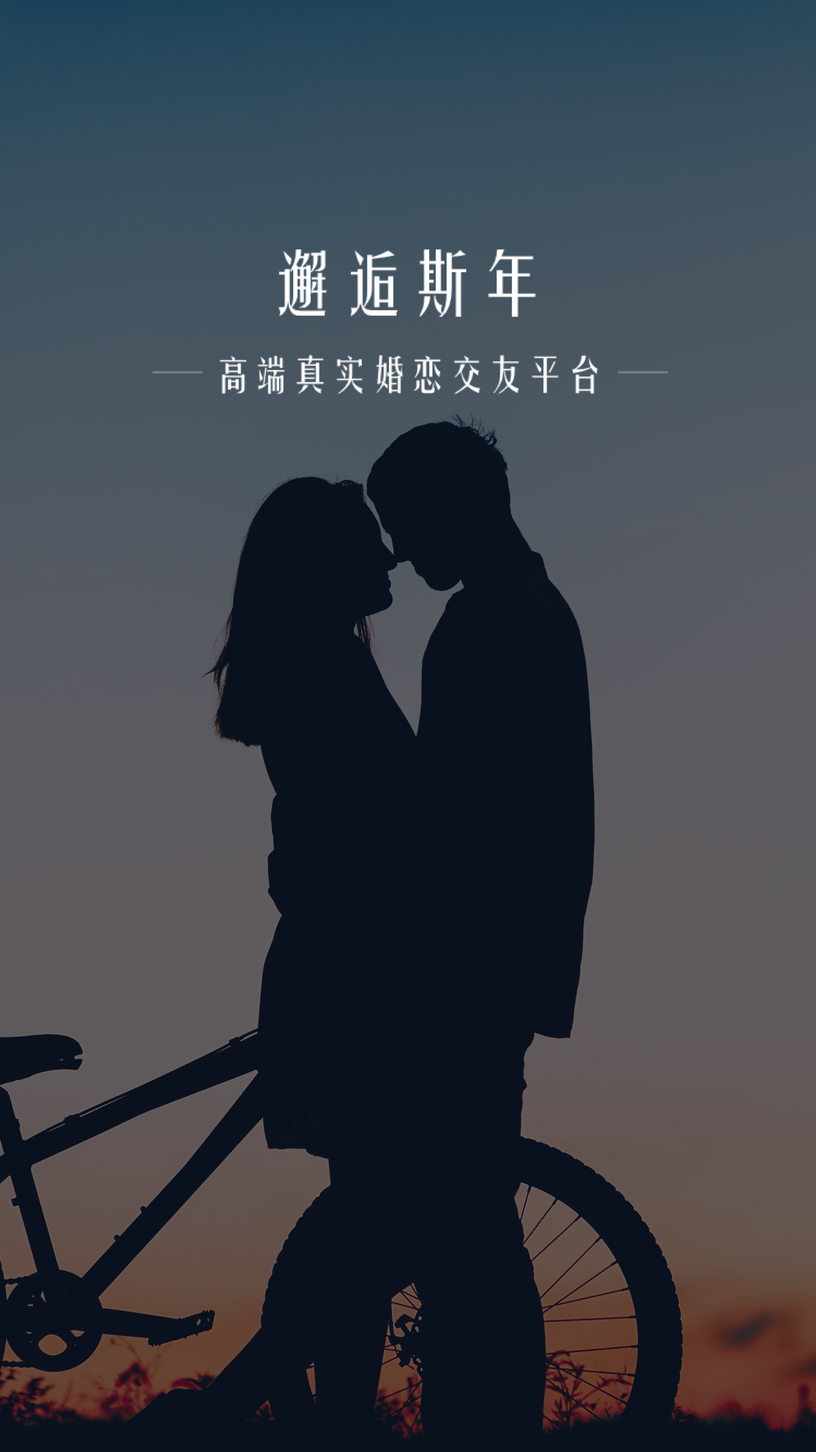
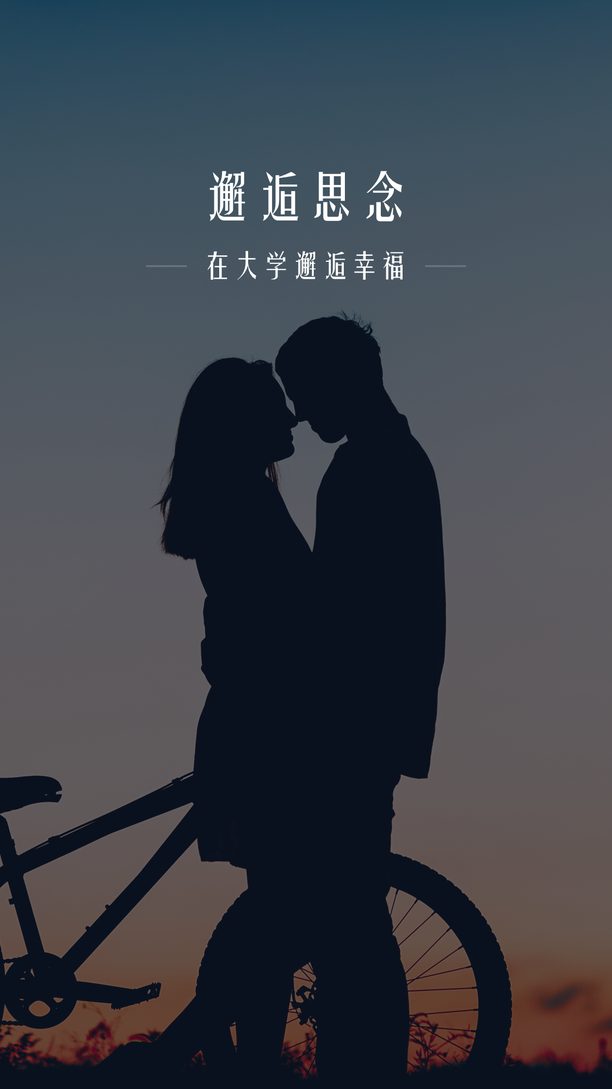
2017 12-23

Changed region(s): [[0.2489, 0.1549, 0.7467, 0.2789]]

diff --git a/src/pages/register/register.ts b/src/pages/register/register.ts
@@ -60,8 +60,8 @@ export class RegisterPage {
    * 注册
    */
   public register() {
-    // let rulePhone = /^1[3|4|5|7|8][0-9]{9}$/;
-    // let rulePas = /^[a-zA-Z0-9]{6,20}$/;
+    let rulePhone = /^1[3|4|5|7|8][0-9]{9}$/;
+    let rulePas = /^[a-zA-Z0-9]{6,20}$/;
     console.log(this.registerForm)
     if(!this.cucumber){
       this.registerMessage("请同意协议内容");
@@ -73,14 +73,14 @@ export class RegisterPage {
         return;
       }
     }
-/*    if(!rulePhone.test(this.registerForm.account)){
+    if(!rulePhone.test(this.registerForm.account)){
       this.registerMessage("请输入正确的手机号码");
       return;
     }
     if(!rulePas.test(this.registerForm.password)){
       this.registerMessage("请按密码格式输入");
       return;
-    }*/
+    }
 
     this.myHttp.post(MyHttp.URL_REGISTER, this.registerForm, (data) => {
       if (data.registerResult === "0") {
@@ -139,20 +139,20 @@ export class RegisterPage {
    * 弹出用户协议
    */
   seeProtocol(){
-    let protocol = "邂逅斯年软件服务协议\n" +
+    let protocol = "邂逅思念软件服务协议\n" +
       "特别提示\n" +
       "\n" +
       "杭州来布科技有限公司（以下简称“来布科技”）在此特别提醒您（用户）在注册成为用户之前，请认真阅读本《用户协议》（以下简称“协议”），确保您充分理解本协议中各条款。请您审慎阅读并选择接受或不接受本协议。除非您接受本协议所有条款，否则您无权注册、登录或使用本协议所涉服务。您的注册、登录、使用等行为将视为对本协议的接受，并同意接受本协议各项条款的约束。 \n" +
-      "本协议约定来布科技与用户之间关于“邂逅斯年”软件服务（以下简称“服务”）的权利义务。“用户”是指注册、登录、使用本服务的个人。本协议可由来布科技随时更新，更新后的协议条款一旦公布即代替原来的协议条款，恕不再另行通知，用户可在本网站查阅最新版协议条款。在来布科技修改协议条款后，如果用户不接受修改后的条款，请立即停止使用来布科技提供的服务，用户继续使用来布科技提供的服务将被视为接受修改后的协议。\n" +
+      "本协议约定来布科技与用户之间关于“邂逅思念”软件服务（以下简称“服务”）的权利义务。“用户”是指注册、登录、使用本服务的个人。本协议可由来布科技随时更新，更新后的协议条款一旦公布即代替原来的协议条款，恕不再另行通知，用户可在本网站查阅最新版协议条款。在来布科技修改协议条款后，如果用户不接受修改后的条款，请立即停止使用来布科技提供的服务，用户继续使用来布科技提供的服务将被视为接受修改后的协议。\n" +
       "一、账号注册\n" +
-      "1、用户在使用本服务前需要注册一个“邂逅斯年”账号。“邂逅斯年”账号应当使用手机号码绑定注册，请用户使用尚未与“邂逅斯年”账号绑定的手机号码，以及未被来布科技根据本协议封禁的手机号码注册“邂逅斯年”账号。来布科技可以根据用户需求或产品需要对账号注册和绑定的方式进行变更，而无须事先通知用户。 \n" +
-      "2、鉴于“邂逅斯年”账号的绑定注册方式，您同意来布科技在注册时将使用您提供的手机号码自动提取您的手机设备识别码等信息用于注册。 \n" +
+      "1、用户在使用本服务前需要注册一个“邂逅思念”账号。“邂逅思念”账号应当使用手机号码绑定注册，请用户使用尚未与“邂逅思念”账号绑定的手机号码，以及未被来布科技根据本协议封禁的手机号码注册“邂逅思念”账号。来布科技可以根据用户需求或产品需要对账号注册和绑定的方式进行变更，而无须事先通知用户。 \n" +
+      "2、鉴于“邂逅思念”账号的绑定注册方式，您同意来布科技在注册时将使用您提供的手机号码自动提取您的手机设备识别码等信息用于注册。 \n" +
       "3、在用户注册及使用本服务时，来布科技需要搜集能识别用户身份的个人信息以便来布科技可以在必要时联系用户，或为用户提供更好的使用体验。来布科技搜集的信息包括但不限于用户的姓名、性别、年龄、出生日期、身份证号、地址、学校情况、公司情况、所属行业、兴趣爱好、常出没的地方、个人说明；来布科技同意对这些信息的使用将受限于第三条用户个人隐私信息保护的约束。 \n" +
-      "4、“邂逅斯年”是一款面向有明确结婚意向的单身人士的实名制移动社交产品，用户需要向“邂逅斯年”提交可以证实自己个人信息真实性的包括但不限于用户的身份证件号码及正反面照片、护照证件号码及照片、学历学位证书正面照片、房产证件正面照片、汽车行驶证件正面照片，“邂逅斯年”有权对用户提交的认证信息进行审核并且确认通过或者否决通过。用户无法通过“邂逅斯年”的信息认证审核将无法使用“邂逅斯年”提供的包括但不限于即时通讯、关注他人产品功能，但可以查看其他会员的公开资料及使用“邂逅斯年”提供的条件搜索功能。“邂逅斯年”将对用户提交的用于个人信息真实性认证的资料进行严格的保密。\n" +
+      "4、“邂逅思念”是一款面向有明确结婚意向的单身人士的实名制移动社交产品，用户需要向“邂逅思念”提交可以证实自己个人信息真实性的包括但不限于用户的身份证件号码及正反面照片、护照证件号码及照片、学历学位证书正面照片、房产证件正面照片、汽车行驶证件正面照片，“邂逅思念”有权对用户提交的认证信息进行审核并且确认通过或者否决通过。用户无法通过“邂逅思念”的信息认证审核将无法使用“邂逅思念”提供的包括但不限于即时通讯、关注他人产品功能，但可以查看其他会员的公开资料及使用“邂逅思念”提供的条件搜索功能。“邂逅思念”将对用户提交的用于个人信息真实性认证的资料进行严格的保密。\n" +
       "\n" +
       "二、服务内容\n" +
       "1、本服务的具体内容由来布科技根据实际情况提供，包括但不限于授权用户通过其账号进行即时通讯、关注他人、发布留言。来布科技可以对其提供的服务予以变更，且来布科技提供的服务内容可能随时变更；用户将会收到来布科技关于服务变更的通知。 \n" +
-      "2、来布科技提供的服务包含免费服务与收费服务。用户可以通过付费方式购买收费服务，具体方式为：用户通过网上银行、支付宝或其他“邂逅斯年”平台提供的付费途径支付一定数额的人民币，然后根据来布科技公布的资费标准购买用户欲使用的收费服务，从而获得收费服务使用权限。对于收费服务，来布科技会在用户使用之前给予用户明确的提示，只有用户根据提示确认其同意按照前述支付方式支付费用并完成了支付行为，用户才能使用该等收费服务。支付行为的完成以银行或第三方支付平台生成“支付已完成”的确认通知为准。\n" +
+      "2、来布科技提供的服务包含免费服务与收费服务。用户可以通过付费方式购买收费服务，具体方式为：用户通过网上银行、支付宝或其他“邂逅思念”平台提供的付费途径支付一定数额的人民币，然后根据来布科技公布的资费标准购买用户欲使用的收费服务，从而获得收费服务使用权限。对于收费服务，来布科技会在用户使用之前给予用户明确的提示，只有用户根据提示确认其同意按照前述支付方式支付费用并完成了支付行为，用户才能使用该等收费服务。支付行为的完成以银行或第三方支付平台生成“支付已完成”的确认通知为准。\n" +
       "\n" +
       "三、用户个人隐私信息保护\n" +
       "1、用户在注册账号或使用本服务的过程中，可能需要填写或提交一些必要的信息，如法律法规、规章规范性文件（以下称“法律法规”）规定的需要填写的身份信息。如用户提交的信息不完整或不符合法律法规的规定，则用户可能无法使用本服务或在使用本服务的过程中受到限制。 \n" +
@@ -170,13 +170,13 @@ export class RegisterPage {
       "(3) 依本协议约定，来布科技管理、审查用户信息及进行处理措施； \n" +
       "(4) 适用法律法规规定的其他事项。\n" +
       "除上述事项外，如未取得用户事先同意，来布科技不会将用户个人隐私信息使用于任何其他用途。 \n" +
-      "6、来布科技重视对未成年人个人隐私信息的保护。来布科技将依赖用户提供的个人信息判断用户是否为未成年人。任何18岁以下的未成年人注册账号或使用本服务应事先取得家长或其法定监护人（以下简称\"监护人\"）的书面同意。除根据法律法规的规定及有权机关的指示披露外，来布科技不会使用或向任何第三方透露未成年人的聊天记录及其他个人隐私信息。除本协议约定的例外情形外，未经监护人事先同意，来布科技不会使用或向任何第三方透露未成年人的个人隐私信息。任何18岁以下的用户不得下载和使用来布科技通过邂逅斯年软件提供的网络游戏。 \n" +
-      "7、用户确认，其地理位置信息为非个人隐私信息，用户成功注册“邂逅斯年”账号视为确认授权来布科技提取、公开及使用用户的地理位置信息。用户地理位置信息将作为用户公开资料之一，由来布科技向其他用户公开。如用户需要终止向其他用户公开其地理位置信息，可随时自行设置为隐身状态。 \n" +
+      "6、来布科技重视对未成年人个人隐私信息的保护。来布科技将依赖用户提供的个人信息判断用户是否为未成年人。任何18岁以下的未成年人注册账号或使用本服务应事先取得家长或其法定监护人（以下简称\"监护人\"）的书面同意。除根据法律法规的规定及有权机关的指示披露外，来布科技不会使用或向任何第三方透露未成年人的聊天记录及其他个人隐私信息。除本协议约定的例外情形外，未经监护人事先同意，来布科技不会使用或向任何第三方透露未成年人的个人隐私信息。任何18岁以下的用户不得下载和使用来布科技通过邂逅思念软件提供的网络游戏。 \n" +
+      "7、用户确认，其地理位置信息为非个人隐私信息，用户成功注册“邂逅思念”账号视为确认授权来布科技提取、公开及使用用户的地理位置信息。用户地理位置信息将作为用户公开资料之一，由来布科技向其他用户公开。如用户需要终止向其他用户公开其地理位置信息，可随时自行设置为隐身状态。 \n" +
       "8、为了改善来布科技的技术和服务，向用户提供更好的服务体验，来布科技或可会自行收集使用或向第三方提供用户的非个人隐私信息。\n" +
       "\n" +
       "四、内容规范\n" +
       "1、本条所述内容是指用户使用本服务过程中所制作、上载、复制、发布、传播的任何内容，包括但不限于账号头像、名称、用户说明等注册信息及认证资料，或文字、语音、图片、视频、图文等发送、回复或自动回复消息和相关链接页面，以及其他使用账号或本服务所产生的内容。 \n" +
-      "2、用户不得利用“邂逅斯年”账号或本服务制作、上载、复制、发布、传播如下法律、法规和政策禁止的内容：\n" +
+      "2、用户不得利用“邂逅思念”账号或本服务制作、上载、复制、发布、传播如下法律、法规和政策禁止的内容：\n" +
       "(1) 反对宪法所确定的基本原则的； \n" +
       "(2) 危害国家安全，泄露国家秘密，颠覆国家政权，破坏国家统一的； \n" +
       "(3) 损害国家荣誉和利益的； \n" +
@@ -187,7 +187,7 @@ export class RegisterPage {
       "(8) 侮辱或者诽谤他人，侵害他人合法权益的； \n" +
       "(9) 不遵守法律法规底线、社会主义制度底线、国家利益底线、公民合法权益底线、社会公共秩序底线、道德风尚底线和信息真实性底线的“七条底线”要求的； \n" +
       "(10) 含有法律、行政法规禁止的其他内容的信息。\n" +
-      "3、用户不得利用“邂逅斯年”账号或本服务制作、上载、复制、发布、传播如下干扰“邂逅斯年”正常运营，以及侵犯其他用户或第三方合法权益的内容：\n" +
+      "3、用户不得利用“邂逅思念”账号或本服务制作、上载、复制、发布、传播如下干扰“邂逅思念”正常运营，以及侵犯其他用户或第三方合法权益的内容：\n" +
       "(1) 含有任何性或性暗示的； \n" +
       "(2) 含有辱骂、恐吓、威胁内容的； \n" +
       "(3) 含有骚扰、垃圾广告、恶意信息、诱骗信息的； \n" +
@@ -197,23 +197,23 @@ export class RegisterPage {
       "\n" +
       "五、使用规则\n" +
       "1、用户在本服务中或通过本服务所传送、发布的任何内容并不反映或代表，也不得被视为反映或代表来布科技的观点、立场或政策，来布科技对此不承担任何责任。 \n" +
-      "2、用户不得利用“邂逅斯年”账号或本服务进行如下行为：\n" +
+      "2、用户不得利用“邂逅思念”账号或本服务进行如下行为：\n" +
       "(1) 提交、发布虚假信息，或盗用他人头像或资料，冒充、利用他人名义的； \n" +
       "(2) 强制、诱导其他用户关注、点击链接页面或分享信息的； \n" +
       "(3) 虚构事实、隐瞒真相以误导、欺骗他人的； \n" +
       "(4) 利用技术手段批量建立虚假账号的； \n" +
-      "(5) 利用“邂逅斯年”账号或本服务从事任何违法犯罪活动的； \n" +
+      "(5) 利用“邂逅思念”账号或本服务从事任何违法犯罪活动的； \n" +
       "(6) 制作、发布与以上行为相关的方法、工具，或对此类方法、工具进行运营或传播，无论这些行为是否为商业目的； \n" +
-      "(7) 其他违反法律法规规定、侵犯其他用户合法权益、干扰“邂逅斯年”正常运营或来布科技未明示授权的行为。\n" +
-      "3、用户须对利用“邂逅斯年”账号或本服务传送信息的真实性、合法性、无害性、准确性、有效性等全权负责，与用户所传播的信息相关的任何法律责任由用户自行承担，与来布科技无关。如因此给来布科技或第三方造成损害的，用户应当依法予以赔偿。 \n" +
+      "(7) 其他违反法律法规规定、侵犯其他用户合法权益、干扰“邂逅思念”正常运营或来布科技未明示授权的行为。\n" +
+      "3、用户须对利用“邂逅思念”账号或本服务传送信息的真实性、合法性、无害性、准确性、有效性等全权负责，与用户所传播的信息相关的任何法律责任由用户自行承担，与来布科技无关。如因此给来布科技或第三方造成损害的，用户应当依法予以赔偿。 \n" +
       "4、来布科技提供的服务中可能包括广告，用户同意在使用过程中显示来布科技和第三方供应商、合作伙伴提供的广告。除法律法规明确规定外，用户应自行对依该广告信息进行的交易负责，对用户因依该广告信息进行的交易或前述广告商提供的内容而遭受的损失或损害，来布科技不承担任何责任。\n" +
       "\n" +
       "六、帐户管理\n" +
-      "1、 “邂逅斯年”账号的所有权归来布科技所有，用户完成申请注册手续后，获得“邂逅斯年”账号的使用权，该使用权仅属于初始申请注册人，禁止赠与、借用、租用、转让或售卖。来布科技因经营需要，有权回收用户的“邂逅斯年”账号。 \n" +
-      "2、用户可以更改、删除“邂逅斯年”帐户上的个人资料、注册信息及传送内容等，但需注意，删除有关信息的同时也会删除用户储存在系统中的文字和图片。用户需承担该风险。 \n" +
+      "1、 “邂逅思念”账号的所有权归来布科技所有，用户完成申请注册手续后，获得“邂逅思念”账号的使用权，该使用权仅属于初始申请注册人，禁止赠与、借用、租用、转让或售卖。来布科技因经营需要，有权回收用户的“邂逅思念”账号。 \n" +
+      "2、用户可以更改、删除“邂逅思念”帐户上的个人资料、注册信息及传送内容等，但需注意，删除有关信息的同时也会删除用户储存在系统中的文字和图片。用户需承担该风险。 \n" +
       "3、用户有责任妥善保管注册账号信息及账号密码的安全，因用户保管不善可能导致遭受盗号或密码失窃，责任由用户自行承担。用户需要对注册账号以及密码下的行为承担法律责任。用户同意在任何情况下不使用其他用户的账号或密码。在用户怀疑他人使用其账号或密码时，用户同意立即通知来布科技。 \n" +
-      "4、用户应遵守本协议的各项条款，正确、适当地使用本服务，如因用户违反本协议中的任何条款，来布科技在通知用户后有权依据协议中断或终止对违约用户“邂逅斯年”账号提供服务。如用户后续再次注册的，迈优有权继续中断或终止对违约用户新注册的“邂逅斯年”账号提供服务。同时，来布科技保留在任何时候收回“邂逅斯年”账号、用户名的权利。 \n" +
-      "5、如用户注册“邂逅斯年”账号后一年不登录，通知用户后，来布科技可以收回该账号，以免造成资源浪费，由此造成的不利后果由用户自行承担。\n" +
+      "4、用户应遵守本协议的各项条款，正确、适当地使用本服务，如因用户违反本协议中的任何条款，来布科技在通知用户后有权依据协议中断或终止对违约用户“邂逅思念”账号提供服务。如用户后续再次注册的，迈优有权继续中断或终止对违约用户新注册的“邂逅思念”账号提供服务。同时，来布科技保留在任何时候收回“邂逅思念”账号、用户名的权利。 \n" +
+      "5、如用户注册“邂逅思念”账号后一年不登录，通知用户后，来布科技可以收回该账号，以免造成资源浪费，由此造成的不利后果由用户自行承担。\n" +
       "\n" +
       "七、数据储存\n" +
       "1、来布科技不对用户在本服务中相关数据的删除或储存失败负责。 \n" +
@@ -221,7 +221,7 @@ export class RegisterPage {
       "3、如用户停止使用本服务或本服务终止，来布科技可以从服务器上永久地删除用户的数据。本服务停止、终止后，来布科技没有义务向用户返还任何数据。\n" +
       "\n" +
       "八、风险承担\n" +
-      "1、用户理解并同意，“邂逅斯年”仅为用户提供信息分享、传送及获取的平台，用户必须为自己注册账号下的一切行为负责，包括用户所传送的任何内容以及由此产生的任何后果。用户应对“邂逅斯年”及本服务中的内容自行加以判断，并承担因使用内容而引起的所有风险，包括因对内容的正确性、完整性或实用性的依赖而产生的风险。来布科技无法且不会对因用户行为而导致的任何损失或损害承担责任。 如果用户发现任何人违反本协议约定或以其他不当的方式使用本服务，请立即向来布科技举报或投诉，来布科技将依本协议约定进行处理。 \n" +
+      "1、用户理解并同意，“邂逅思念”仅为用户提供信息分享、传送及获取的平台，用户必须为自己注册账号下的一切行为负责，包括用户所传送的任何内容以及由此产生的任何后果。用户应对“邂逅思念”及本服务中的内容自行加以判断，并承担因使用内容而引起的所有风险，包括因对内容的正确性、完整性或实用性的依赖而产生的风险。来布科技无法且不会对因用户行为而导致的任何损失或损害承担责任。 如果用户发现任何人违反本协议约定或以其他不当的方式使用本服务，请立即向来布科技举报或投诉，来布科技将依本协议约定进行处理。 \n" +
       "2、用户理解并同意，因业务发展需要，来布科技保留单方面对本服务的全部或部分服务内容变更、暂停、终止或撤销的权利，用户需承担此风险。\n" +
       "\n" +
       "九、知识产权声明\n" +
@@ -241,17 +241,17 @@ export class RegisterPage {
       "2、本服务同大多数互联网服务一样，受包括但不限于用户原因、网络服务质量、社会环境等因素的差异影响，可能受到各种安全问题的侵扰，如他人利用用户的资料，造成现实生活中的骚扰；用户下载安装的其它软件或访问的其他网站中含有“特洛伊木马”等病毒，威胁到用户的计算机信息和数据的安全，继而影响本服务的正常使用等等。用户应加强信息安全及使用者资料的保护意识，要注意加强密码保护，以免遭致损失和骚扰。 \n" +
       "3、用户理解并确认，本服务存在因不可抗力、计算机病毒或黑客攻击、系统不稳定、用户所在位置、用户关机以及其他任何技术、互联网络、通信线路原因等造成的服务中断或不能满足用户要求的风险，因此导致的用户或第三方任何损失，来布科技不承担任何责任。 \n" +
       "4、用户理解并确认，在使用本服务过程中存在来自任何他人的包括误导性的、欺骗性的、威胁性的、诽谤性的、令人反感的或非法的信息，或侵犯他人权利的匿名或冒名的信息，以及伴随该等信息的行为，因此导致的用户或第三方的任何损失，来布科技不承担任何责任。 \n" +
-      "5、用户理解并确认，来布科技需要定期或不定期地对“邂逅斯年”平台或相关的设备进行检修或者维护，如因此类情况而造成服务在合理时间内的中断，来布科技无需为此承担任何责任，但来布科技应事先进行通告。 \n" +
+      "5、用户理解并确认，来布科技需要定期或不定期地对“邂逅思念”平台或相关的设备进行检修或者维护，如因此类情况而造成服务在合理时间内的中断，来布科技无需为此承担任何责任，但来布科技应事先进行通告。 \n" +
       "6、来布科技依据法律法规、本协议约定获得处理违法违规或违约内容的权利，该权利不构成来布科技的义务或承诺，来布科技不能保证及时发现违法违规或违约行为或进行相应处理。 \n" +
       "7、用户理解并确认，对于来布科技向用户提供的下列产品或者服务的质量缺陷及其引发的任何损失，来布科技无需承担任何责任：\n" +
       "(1) 来布科技向用户免费提供的服务； \n" +
       "(2) 来布科技向用户赠送的任何产品或者服务。\n" +
       "\n" +
       "8、用户理解并确认，来布科技会尽最大努力认真审核用户提交的所有认证资料，但由于是人工审核，不能保证每一个用户信息都是真实可靠的，仍需要用户在使用中自主鉴定其他用户的真实性。此外，用户需提交真实可靠的认证信息，由于用户造假所造成任何直接或间接问题，后果由该用户自己承担。 \n" +
-      "9、在任何情况下，来布科技均不对任何间接性、后果性、惩罚性、偶然性、特殊性或刑罚性的损害，包括因用户使用“邂逅斯年”或本服务而遭受的利润损失，承担责任（即使来布科技已被告知该等损失的可能性亦然）。尽管本协议中可能含有相悖的规定，来布科技对用户承担的全部责任，无论因何原因或何种行为方式，始终不超过用户因使用来布科技提供的服务而支付给来布科技的费用(如有)。\n" +
+      "9、在任何情况下，来布科技均不对任何间接性、后果性、惩罚性、偶然性、特殊性或刑罚性的损害，包括因用户使用“邂逅思念”或本服务而遭受的利润损失，承担责任（即使来布科技已被告知该等损失的可能性亦然）。尽管本协议中可能含有相悖的规定，来布科技对用户承担的全部责任，无论因何原因或何种行为方式，始终不超过用户因使用来布科技提供的服务而支付给来布科技的费用(如有)。\n" +
       "\n" +
       "十二、服务的变更、中断、终止\n" +
-      "1、鉴于网络服务的特殊性，用户同意来布科技有权随时变更、中断或终止部分或全部的服务（包括收费服务）。来布科技变更、中断或终止的服务，来布科技应当在变更、中断或终止之前通知用户，并应向受影响的用户提供等值的替代性的服务；如用户不愿意接受替代性的服务，如果该用户已经向来布科技支付的邂逅斯年币，来布科技应当按照该用户实际使用服务的情况扣除相应邂逅斯年币之后将剩余的邂逅斯年币退还用户的邂逅斯年币账户中。 \n" +
+      "1、鉴于网络服务的特殊性，用户同意来布科技有权随时变更、中断或终止部分或全部的服务（包括收费服务）。来布科技变更、中断或终止的服务，来布科技应当在变更、中断或终止之前通知用户，并应向受影响的用户提供等值的替代性的服务；如用户不愿意接受替代性的服务，如果该用户已经向来布科技支付的邂逅思念币，来布科技应当按照该用户实际使用服务的情况扣除相应邂逅思念币之后将剩余的邂逅思念币退还用户的邂逅思念币账户中。 \n" +
       "2、如发生下列任何一种情形，来布科技有权变更、中断或终止向用户提供的免费服务或收费服务，而无需对用户或任何第三方承担任何责任：\n" +
       "(1) 根据法律规定用户应提交真实信息，而用户提供的个人资料不真实、或与注册时信息不一致又未能提供合理证明； \n" +
       "(2) 用户违反相关法律法规或本协议的约定； \n" +
@@ -259,7 +259,7 @@ export class RegisterPage {
       "(4) 出于安全的原因或其他必要的情形。\n" +
       "\n" +
       "十三、服务说明与免责条款\n" +
-      "1、“邂逅斯年”仅保证用户的个人信息在认证阶段时的真实性，但不保证时效性，对于用户的个人素养“邂逅斯年”也不担保，所有用户在使用产品功能进行聊天交友时需自己判断对方用户的个人品德等，做好自我防护，对于因用户个人品行等问题造成的后果将由用户自己承担。\n" +
+      "1、“邂逅思念”仅保证用户的个人信息在认证阶段时的真实性，但不保证时效性，对于用户的个人素养“邂逅思念”也不担保，所有用户在使用产品功能进行聊天交友时需自己判断对方用户的个人品德等，做好自我防护，对于因用户个人品行等问题造成的后果将由用户自己承担。\n" +
       "\n" +
       "十四、其他\n" +
       "1、来布科技郑重提醒用户注意本协议中免除来布科技责任和限制用户权利的条款，请用户仔细阅读，自主考虑风险。未成年人应在法定监护人的陪同下阅读本协议。 \n" +
@@ -267,7 +267,7 @@ export class RegisterPage {
       "3、本协议的任何条款无论因何种原因无效或不具可执行性，其余条款仍有效，对双方具有约束力。\n" +
       "杭州来布科技有限公司\n";
     this.alertCtrl.create({
-      subTitle:"邂逅斯年协议",
+      subTitle:"邂逅思念协议",
       message: protocol,
       buttons: ["关闭"]
     }).present();

diff --git a/src/pages/login/login.ts b/src/pages/login/login.ts
@@ -45,8 +45,8 @@ export class LoginPage {
    * 登录控制
    */
   login() {
-    // let rulePhone = /^1[3|4|5|7|8][0-9]{9}$/;
-    // let rulePas = /^[a-zA-Z0-9]{6,20}$/;
+    let rulePhone = /^1[3|4|5|7|8][0-9]{9}$/;
+    let rulePas = /^[a-zA-Z0-9]{6,20}$/;
     console.log(this.loginForm)
     if (typeof this.loginForm.account === "undefined" || this.loginForm.account === "") {
       this.loginFailError("账号不能为空");
@@ -56,14 +56,14 @@ export class LoginPage {
       this.loginFailError("密码不能为空");
       return;
     }
-/*    if(!rulePhone.test(this.loginForm.account)){
+    if(!rulePhone.test(this.loginForm.account)){
       this.loginFailError("请输入正确的手机号码");
       return;
     }
     if(!rulePas.test(this.loginForm.password)){
       this.loginFailError("请按密码格式输入");
       return;
-    }*/
+    }
 
     this.myHttp.post(MyHttp.URL_LOGIN, this.loginForm, (data) => {
       console.log(data)

diff --git a/src/pages/forget/forget.ts b/src/pages/forget/forget.ts
@@ -64,8 +64,8 @@ export class ForgetPage {
    * 找回密码控制
    */
   getPassword() {
-    // let rulePhone = /^1[3|4|5|7|8][0-9]{9}$/;
-    // let rulePas = /^[a-zA-Z0-9]{6,20}$/;
+    let rulePhone = /^1[3|4|5|7|8][0-9]{9}$/;
+    let rulePas = /^[a-zA-Z0-9]{6,20}$/;
     console.log(this.forgetForm)
     for(let name in this.forgetForm){
       if (typeof this.forgetForm[name] === "undefined" || this.forgetForm[name] === "") {
@@ -73,14 +73,14 @@ export class ForgetPage {
         return;
       }
     }
-/*    if(!rulePhone.test(this.forgetForm.account)){
+    if(!rulePhone.test(this.forgetForm.account)){
       this.loginFailError("请输入正确的手机号码");
       return;
     }
     if(!rulePas.test(this.forgetForm.newPassword)){
       this.loginFailError("请按密码格式输入");
       return;
-    }*/
+    }
 
       //找回密码逻辑
       this.myHttp.post(MyHttp.URL_GET_PAS, this.forgetForm, (data) => {

diff --git a/src/pages/user-introduce/user-introduce.html b/src/pages/user-introduce/user-introduce.html
@@ -60,21 +60,22 @@
       <ng-container *ngFor="let credType of credTypes">
           <ion-item class="credMsg" *ngIf="getStatus(credType.id)==true">{{credType.name}}</ion-item>
       </ng-container>
+      <ion-item class="creMsg" *ngIf="count==0">所有证件均未认证</ion-item>
     </ion-list>
   </div>
 
   <!--未认证的信息-->
-  <div class="unpass_audit">
+<!--  <div class="unpass_audit">
     <div class="title">
       未通过认证
     </div>
-    <!--TODO:-->
+    &lt;!&ndash;TODO:&ndash;&gt;
     <ion-list>
       <ng-container *ngFor="let credType of credTypes">
         <ion-item class="credMsg" *ngIf="getStatus(credType.id)==false">{{credType.name}}</ion-item>
       </ng-container>
     </ion-list>
-  </div>
+  </div>-->
 
   <!--其他信息-->
   <ion-list class="both-info">

diff --git a/src/pages/home-introduce/home-introduce.html b/src/pages/home-introduce/home-introduce.html
@@ -53,21 +53,22 @@
       <ng-container *ngFor="let credType of credTypes">
         <ion-item class="credMsg" *ngIf="getStatus(credType.id)==true">{{credType.name}}</ion-item>
       </ng-container>
+      <ion-item class="credMsg" *ngIf="count==0">所有证件均未认证</ion-item>
     </ion-list>
   </div>
 
   <!--未认证的信息-->
-  <div class="unpass_audit">
+ <!-- <div class="unpass_audit">
     <div class="title">
       未通过认证
     </div>
-    <!--TODO:-->
+    &lt;!&ndash;TODO:&ndash;&gt;
     <ion-list>
       <ng-container *ngFor="let credType of credTypes">
         <ion-item class="credMsg" *ngIf="getStatus(credType.id)==false">{{credType.name}}</ion-item>
       </ng-container>
     </ion-list>
-  </div>
+  </div>-->
 
   <!--其他信息-->
   <ion-list class="both-info">

diff --git a/src/pages/home/home.html b/src/pages/home/home.html
@@ -5,7 +5,7 @@
       <img src="assets/img/search.png"/>
     </div>
     <div class="head_title">
-      LOGO
+      邂逅思念
     </div>
     <div class="line">
     </div>
@@ -21,7 +21,7 @@
     <div class="user_card" *ngFor="let user of userList; let i = index;" (click)="getIntroduce(user.id)">
       <div>
         <div class="picture">
-          <img [src]="imgService.safeImage(user.picture)" />
+          <img [src]="imgService.safeImage(user.picture)" class="mypic" />
         </div>
 
         <div class="message">
@@ -47,7 +47,7 @@
       </div>
     </div>
 
-    <div class="next_page" (click)="nextPage()">换页</div>
+    <div class="next_page" (click)="nextPage()">显示更多</div>
   </div>
 
 </ion-content>

diff --git a/src/pages/contact/contact.ts b/src/pages/contact/contact.ts
@@ -44,8 +44,8 @@ export class ContactPage {
    */
   getLikeList(refresher?) {
     this.myHttp.post(MyHttp.URL_LIKE_LIST, {
-      /*userId: this.memory.getUser().id*/
-      userId:1
+      userId: this.memory.getUser().id
+      /*userId:1*/
     }, (data) => {
       console.log(data)
       this.likeList = data.userList;
@@ -75,8 +75,8 @@ export class ContactPage {
    */
   getCollectList(refresher?) {
     this.myHttp.post(MyHttp.URL_COLLECT_LIST, {
-      /*userId: this.memory.getUser().id*/
-      userId:1
+      userId: this.memory.getUser().id
+      /*userId:1*/
     }, (data) => {
       console.log(data)
       this.collectList = data.userList;

diff --git a/src/pages/home/home.scss b/src/pages/home/home.scss
@@ -49,9 +49,13 @@ page-home {
     border-radius:7px;
   }
 
+  .mypic{
+    height:300px;
+  }
   .user_card img {
+    position: relative;
     border-radius: 7px 7px 0 0;
-    width: 100%
+    width: 100%;
   }
 
   .line_one{
@@ -67,6 +71,7 @@ page-home {
     font-size: 22px;
     display: inline-block;
   }
+
   .pic{
     position: absolute;
     text-align: center;
@@ -83,12 +88,11 @@ page-home {
   }
 
   .next_page {
-    width: 100%;
     margin: 10px 0px;
     padding: 10px;
-    background: floralwhite;
     text-align: center;
-    font-size: 32px;
+    font-size: 20px;
+    color:#FF975A;
   }
 
 }

diff --git a/src/pages/login/login.html b/src/pages/login/login.html
@@ -20,7 +20,7 @@
 
     <ion-item class="password">
       <img item-start src="assets/img/password.png"/>
-      <ion-input type="{{pasType}}" placeholder="密码(6-20位数据或者字母)" [(ngModel)]="loginForm.password"></ion-input>
+      <ion-input type="{{pasType}}" placeholder="密码(6-20位数字或者字母)" [(ngModel)]="loginForm.password"></ion-input>
 
       <button ion-button item-end clear>
         <img src="assets/img/passhow.png" (click)="showPas()" />

diff --git a/src/pages/user-introduce/user-introduce.ts b/src/pages/user-introduce/user-introduce.ts
@@ -110,10 +110,12 @@ export class UserIntroducePage {
    * @param typeId
    * @returns {any} -2 ~ 1分别表示 未认证、未通过、等待审核、审核通过
    */
+  public count = 0;
   getStatus(typeId) : boolean {
     for (let cred of this.myCred) {
       if (cred.type['id'] === typeId) {
         if(cred.auditStatus===1){
+          this.count++;
           return true;
         }
       }

diff --git a/src/pages/home-introduce/home-introduce.ts b/src/pages/home-introduce/home-introduce.ts
@@ -171,10 +171,12 @@ export class HomeIntroducePage {
    * @param typeId
    * @returns {any} -2 ~ 1分别表示 未认证、未通过、等待审核、审核通过
    */
+  count = 0;
   getStatus(typeId) : boolean {
     for (let cred of this.myCred) {
       if (cred.type['id'] === typeId) {
         if(cred.auditStatus===1){
+          this.count++;
           return true;
         }
       }

diff --git a/src/pages/register/register.html b/src/pages/register/register.html
@@ -44,7 +44,7 @@
     <div class="aggrement">
       <ion-checkbox color="danger" [(ngModel)]="cucumber"></ion-checkbox>
       <span class="span1">我同意</span>
-      <span class="span2" (click)="seeProtocol()">《邂逅斯年用户协议》</span>
+      <span class="span2" (click)="seeProtocol()">《邂逅思念用户协议》</span>
     </div>
 
   </ion-list>
